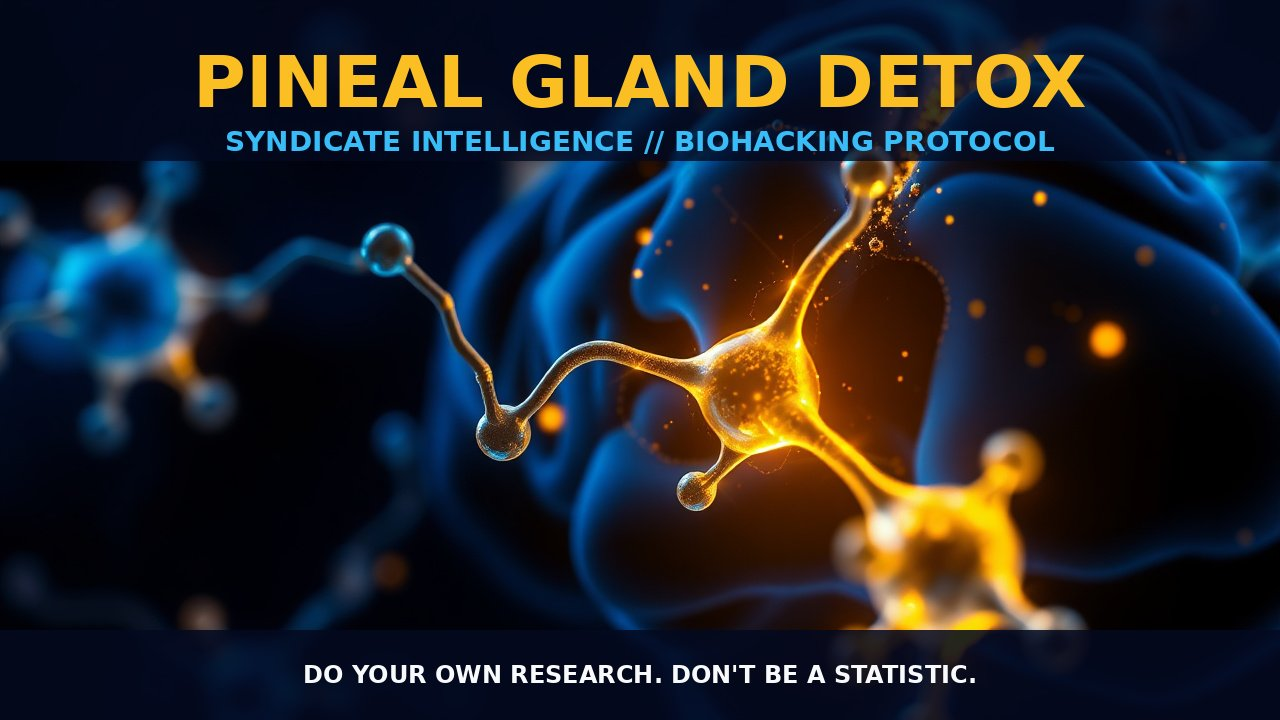
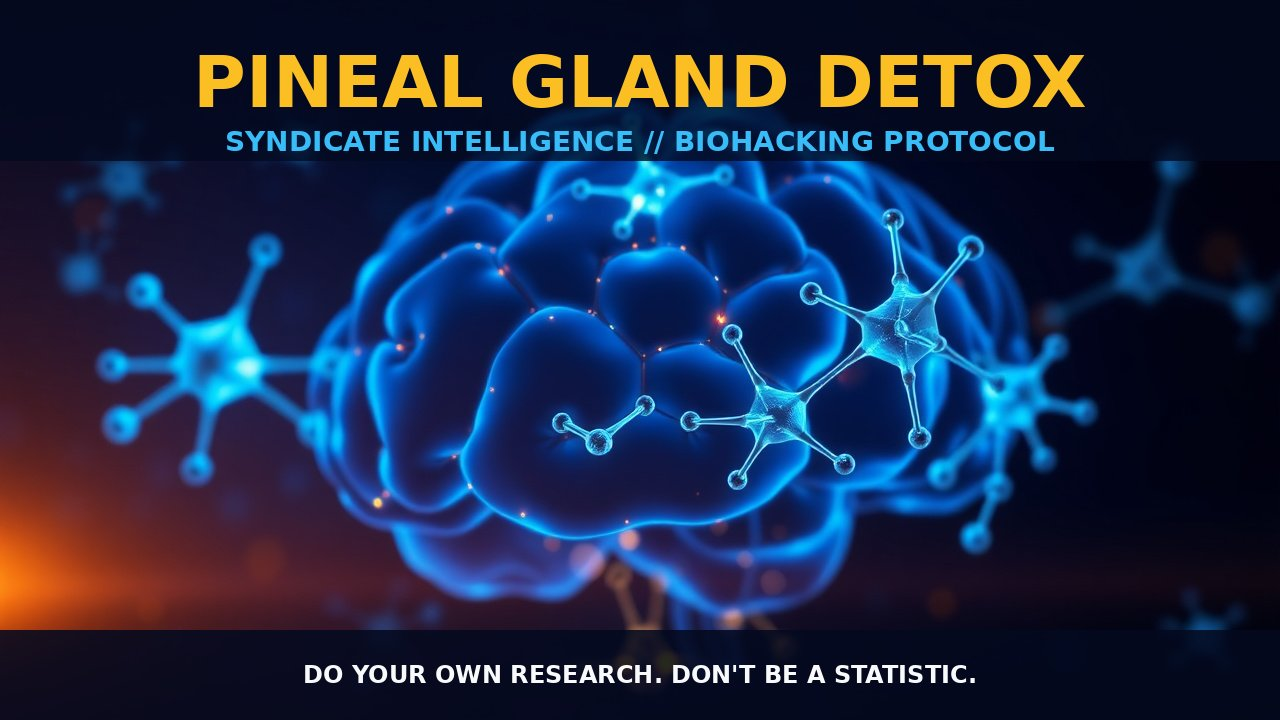
Syndicate Transmission: Pineal Gland Detox

diff --git a/articles/2026-05-03-pineal-gland-detox.html b/articles/2026-05-03-pineal-gland-detox.html
@@ -1,0 +1,216 @@
+<!DOCTYPE html>
+<html lang="en">
+<head>
+    <meta charset="UTF-8">
+    <meta name="viewport" content="width=device-width, initial-scale=1.0">
+    <title>Pineal Gland Detox | Hopes and Dreams</title>
+    <link rel="preconnect" href="https://fonts.googleapis.com">
+    <link rel="preconnect" href="https://fonts.gstatic.com" crossorigin>
+    <link rel="dns-prefetch" href="https://fonts.googleapis.com">
+    <link rel="dns-prefetch" href="https://fonts.gstatic.com">
+    <link href="https://fonts.googleapis.com/css2?family=Inter:wght@400;700;900&display=swap" rel="stylesheet">
+    <link rel="stylesheet" href="../style.css">
+    <style>
+        /* --- ARTICLE CONTENT AREA --- */
+        .article-container {
+            max-width: 800px;
+            margin: 0 auto;
+            padding: 0 24px 100px;
+        }
+
+        .glow-divider {
+            width: 100%;
+            height: 1px;
+            background: radial-gradient(circle, var(--neon-blue) 0%, transparent 70%);
+            opacity: 0.2;
+            margin-bottom: 60px;
+        }
+
+        h1 {
+            color: var(--text-main);
+            font-size: clamp(2.2rem, 7vw, 3.5rem);
+            font-weight: 900;
+            line-height: 1.1;
+            margin-bottom: 25px;
+            text-shadow: 0 0 30px rgba(255, 255, 255, 0.2);
+        }
+
+        .meta-data {
+            color: var(--neon-gold);
+            text-transform: uppercase;
+            font-size: 0.9rem;
+            letter-spacing: 2px;
+            font-weight: 700;
+            margin-bottom: 40px;
+            display: block;
+        }
+
+        h2 {
+            color: #ffffff;
+            font-size: clamp(1.6rem, 5vw, 2.4rem);
+            font-weight: 800;
+            margin-top: 60px;
+            margin-bottom: 25px;
+            text-transform: uppercase;
+            letter-spacing: 2px;
+            text-shadow: 0 0 15px var(--neon-blue), 0 0 5px #ffffff;
+        }
+
+        p {
+            color: var(--text-dim);
+            font-size: 1.2rem;
+            margin-bottom: 25px;
+        }
+
+        strong {
+            color: var(--text-main);
+            font-weight: 700;
+        }
+
+        .hack-box {
+            background-color: var(--card-bg);
+            border-left: 4px solid var(--neon-gold);
+            padding: 30px;
+            border-radius: 0 16px 16px 0;
+            margin: 40px 0;
+        }
+
+        .hack-box h4 {
+            color: var(--neon-gold);
+            margin: 0 0 10px 0;
+            text-transform: uppercase;
+            letter-spacing: 1px;
+        }
+
+        .article-img {
+            width: 100%;
+            border-radius: 24px;
+            border: 1px solid rgba(56, 189, 248, 0.2);
+            margin: 40px 0;
+        }
+
+        ul {
+            color: var(--text-dim);
+            font-size: 1.1rem;
+            margin-bottom: 30px;
+        }
+
+        li {
+            margin-bottom: 10px;
+        }
+
+        .syndicate-footer {
+            margin-top: 80px;
+            padding: 40px;
+            background: rgba(56, 189, 248, 0.05);
+            border: 1px solid rgba(56, 189, 248, 0.1);
+            border-radius: 24px;
+            text-align: center;
+        }
+
+        .btn-fb {
+            display: inline-block;
+            margin-top: 20px;
+            background: var(--neon-blue);
+            color: var(--bg-main);
+            padding: 15px 30px;
+            border-radius: 50px;
+            text-decoration: none;
+            font-weight: 900;
+            text-transform: uppercase;
+            transition: 0.3s;
+        }
+
+        .btn-fb:hover {
+            background: var(--neon-gold);
+            transform: scale(1.05);
+        }
+
+        footer {
+            text-align: center;
+            padding: 60px 0;
+            color: #4b5563;
+            font-size: 0.85rem;
+            border-top: 1px solid rgba(255, 255, 255, 0.05);
+        }
+
+        .timestamp-live {
+            min-height: 1.2em;
+        }
+
+        @media (max-width: 600px) {
+            h1 { font-size: 2rem; }
+            nav { flex-direction: column; gap: 20px; align-items: center; }
+        }
+    </style>
+</head>
+<body>
+    <div id="scroll-progress"></div>
+    <button id="theme-toggle" class="theme-toggle-pill" aria-label="Toggle between dark and light mode">☀ LIGHT MODE</button>
+
+    <header>
+        <div class="logo-wrap">
+            <img src="../topper.png" alt="Hopes and Dreams" width="1780" height="1050" fetchpriority="high">
+        </div>
+
+        <nav>
+            <a href="../index.html">Home</a>
+            <a href="../shop.html">Procurement</a>
+            <a href="../optimization.html">Optimization</a>
+            <a href="../intel.html">Intel Hub</a>
+            <a href="../about.html">About</a>
+            <a href="../privacy.html">Privacy</a>
+        </nav>
+    </header>
+
+    <div class="container">
+        <article class="article-container" data-reveal>
+            <div class="timestamp-live" data-timestamp="[ LIVE FEED ] RECEIVED: 2026-05-03 10:35:07 AST"></div>
+            <h1>Pineal Gland Detox</h1>
+
+            <img src="../media/general/2026-05-03-pineal-gland-detox.jpg" alt="Pineal Gland Detox" class="article-img">
+
+            <div class="intel-burst">
+                <p>THE MECHANICS<br>The pineal gland, often dubbed the 'third eye,' is central to regulating sleep-wake cycles and overall well-being. It can become burdened with environmental toxins like lead or cadmium, or endocrine disruptors which may hinder its function over time. A targeted detox approach aims at purging these impurities to restore hormonal balance.<br><br>Diving into the specifics, pineal gland detox relies on compounds that either aid liver and kidney detox pathways or directly support pineal health by mitigating oxidative stress and preventing heavy metal accumulation. Some interact with hypothalamus-pineal axis receptors, promoting hormonal equilibrium crucial for optimal brain function.<br><br>BIOLOGICAL LEVERAGE<br>By facilitating a cleaner environment within the pineal gland, we may enhance melatonin production leading to superior sleep quality and deeper relaxation states. Melatonin not only regulates our sleep-wake cycle but also offers protection against oxidative stress in various tissues. Nutrients such as those found in dark chocolate, green tea, or certain berries could bolster the pineal gland's defenses by neutralizing free radicals.<br><br>Moreover, optimizing pineal function can affect cognitive performance through its interaction with neurotransmitters like serotonin and dopamine—crucial for mood regulation and focus. A healthy pineal environment may improve our brain’s ability to manage these chemicals effectively.<br><br>TACTICAL IMPLEMENTATION<br>Embarking on a pineal gland detox involves incorporating specific nutrients and supplements known for their detoxifying properties and hormonal balancing effects:<br>Antioxidants: Vitamins C and E, beta-carotene, and coenzyme Q10 (CoQ10) work as powerful antioxidants that counter oxidative damage within the pineal gland.<br>Detoxifying Agents: N-acetyl cysteine (NAC), for example, aids in mobilizing heavy metals by forming chelates which are then excreted through urine or feces.<br><br>Adjusting daily intake should be based on individual needs but generally falls into a range that supports detoxification. Vitamin C doses between 500-1,000 mg and vitamin E around 200-400 IU per day might prove beneficial for many seeking pineal gland health support.<br><br>Detox efforts need to be personalized taking into account lifestyle, diet, environmental factors, and any existing health conditions. Additionally, integrating natural therapies such as melatonin supplements or specific adaptogenic herbs may further enhance this protocol's effectiveness.<br><br>DO YOUR OWN RESEARCH. DON'T BE A STATISTIC.</p>
+            </div>
+
+            <div class="hack-box"><h4>Prostar Life Hack</h4><p>Always verify protocol biological leverage with baseline biometric tracking. Data is sovereignty.</p></div>
+
+            <div class="researcher-sig">
+                [ STATUS: TRANSMISSION_COMPLETE ]<br>
+                [ AUTHOR: LEAD TECHNICAL RESEARCHER ]
+            </div>
+
+            <div class="syndicate-footer">
+                <h3>Join the Conversation</h3>
+                <p>Discuss this transmission and share your results with the rest of the builders in our private community.</p>
+                <a href="https://www.facebook.com/profile.php?id=61581034972328" class="btn-fb" target="_blank" rel="noopener noreferrer">Connect on Facebook →</a>
+            </div>
+        </article>
+
+        <section id="article-navigation" class="article-nav-section"></section>
+
+        <section class="newsletter-section" data-reveal>
+            <div class="newsletter-box">
+                <h3>Join the Syndicate</h3>
+                <p>Initialize your subscription for weekly intelligence on neuro-optimization, biological hacking, and technical stack evolution.</p>
+                <form action="https://formspree.io/f/xqegvale" method="POST" class="newsletter-form">
+                    <input type="email" name="email" placeholder="Enter your email address" required>
+                    <button type="submit">Secure Entry</button>
+                </form>
+            </div>
+        </section>
+
+        <footer>
+            <p>&copy; 2026 Dream Syndicate Digital Assets. All Rights Reserved.</p>
+        </footer>
+    </div>
+
+    <script src="https://cdnjs.cloudflare.com/ajax/libs/gsap/3.12.5/gsap.min.js"></script>
+    <script src="https://cdnjs.cloudflare.com/ajax/libs/gsap/3.12.5/Flip.min.js"></script>
+    <script src="https://cdnjs.cloudflare.com/ajax/libs/gsap/3.12.5/TextPlugin.min.js"></script>
+    <script src="../codex.js" defer></script>
+    <script src="../script.js" defer></script>
+
+</body>
+</html>
